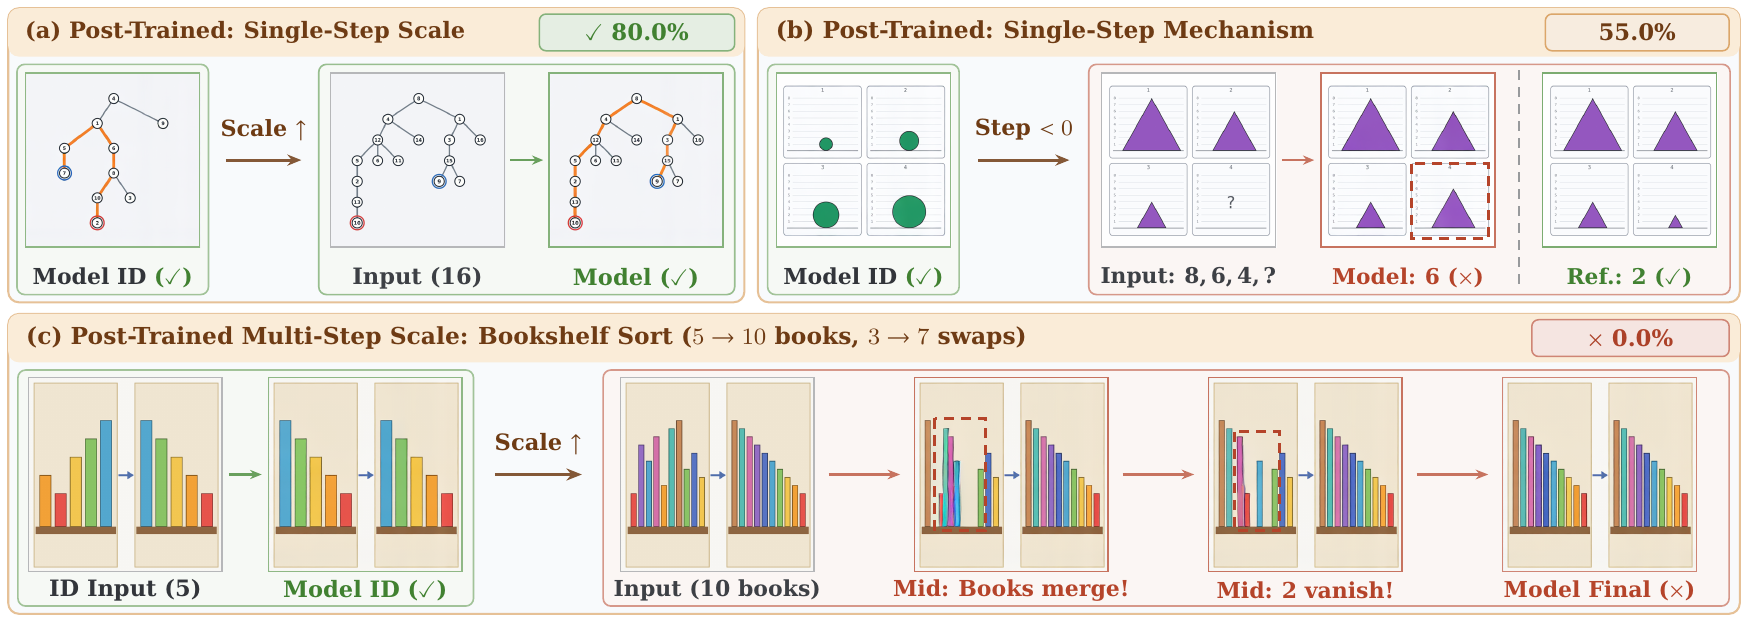
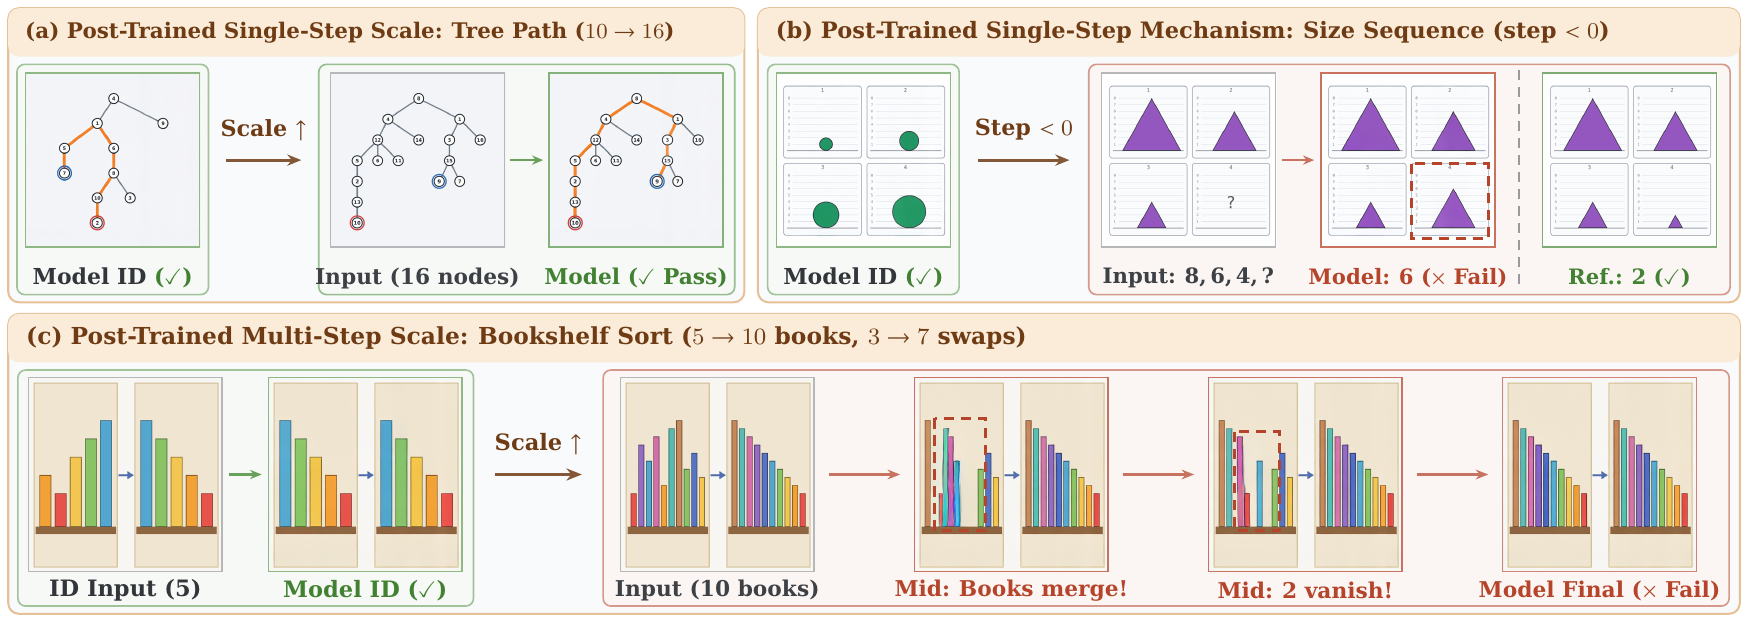
Remove ambiguous percentage badges on case cards and clarify metric scopes

diff --git a/docs/index.html b/docs/index.html
@@ -402,11 +402,11 @@
               <div class="mosaic-head">
                 <div>
                   <strong>11 Task Families (246 In-Domain Tasks)</strong>
-                  <span>Hover to preview reference video &middot; Click to browse family</span>
+                  <span>Hover to preview reference video &middot; Click to browse &middot; Bars show post-trained VideoGym-LTX-2.3 In-Domain pass rate</span>
                 </div>
                 <div class="mosaic-legend">
-                  <span><i class="dot dot-ss"></i>Single-Step Dominant</span>
-                  <span><i class="dot dot-ms"></i>Multi-Step Dominant</span>
+                  <span><i class="dot dot-ss"></i>Single-Step (SS) Dominant</span>
+                  <span><i class="dot dot-ms"></i>Multi-Step (MS) Dominant</span>
                 </div>
               </div>
               <div id="family-mosaic" class="family-mosaic"></div>
@@ -763,9 +763,10 @@
                 <strong>Figure 4. Post-Trained Rollouts under Prompt Paraphrase: Text vs. Vision.</strong>
                 Rollouts from post-trained VideoGym-LTX-2.3 on matched problems. <strong>(a)</strong> In Multi-Step
                 <em>Square Maze</em>, synonymous text rewrites pass cleanly, whereas redrawing the walled maze as rail
-                links on the same grid causes an illegal off-path shortcut (0.00% across all Multi-Step tasks).
-                <strong>(b)</strong> Marking one static shortest path in the Single-Step Group still transfers across
-                redrawn square terminals (65.22% Single-Step retention).
+                links on the same grid causes an illegal off-path shortcut (0.00% pass rate across all 14 Multi-Step
+                Vision Paraphrase tasks). <strong>(b)</strong> Marking one static shortest path in the Single-Step
+                Group still transfers across redrawn square terminals (65.22% of solved Single-Step In-Domain problems
+                retained under Vision Paraphrase).
               </figcaption>
             </figure>
 
@@ -773,9 +774,10 @@
             <div class="prose">
               <h3>2. Extrapolation: Static Scale Holds Up, Longer Rollout Chains Collapse</h3>
               <p>
-                Across 52 Extrapolation tasks (<strong>25.77%</strong> overall: <strong>52.00%</strong> Single-Step vs.
-                <strong>1.48%</strong> Multi-Step), performance on In-Domain source tasks solved at 100% accuracy splits
-                sharply along execution structure:
+                Across all 52 Extrapolation tasks, post-trained VideoGym-LTX-2.3 scores <strong>25.77%</strong> overall
+                (<strong>52.00%</strong> in the Single-Step Group vs. <strong>1.48%</strong> in the Multi-Step Group).
+                Controlling for source-task competence by restricting to tasks whose In-Domain source is solved at 100%
+                accuracy reveals a sharp split in Extrapolation pass rate:
               </p>
             </div>
 
@@ -783,19 +785,19 @@
               <div class="extrap-card">
                 <div class="extrap-title-row">
                   <strong>Scale Extrapolation</strong>
-                  <span>29 Tasks &middot; Larger Grids, Objects, or Steps</span>
+                  <span>29 Tasks &middot; Larger Grids, Objects, or Steps &middot; Extrapolation Pass Rate</span>
                 </div>
                 <div class="extrap-meters">
                   <div class="em-item">
                     <div class="em-top">
-                      <span>Single-Step (100%-Solved In-Domain Sources)</span>
+                      <span>Single-Step Group (6 tasks with 100%-solved In-Domain sources)</span>
                       <strong class="is-blue">80.00%</strong>
                     </div>
                     <div class="em-track"><i style="width: 80%" class="fill-blue"></i></div>
                   </div>
                   <div class="em-item">
                     <div class="em-top">
-                      <span>Multi-Step (100%-Solved In-Domain Sources)</span>
+                      <span>Multi-Step Group (5 tasks with 100%-solved sources; 0.00% across all 20 tasks)</span>
                       <strong class="is-red">0.00% <small>(remains 0% at 20 questions/task)</small></strong>
                     </div>
                     <div class="em-track"><i style="width: 1.5%" class="fill-red"></i></div>
@@ -810,19 +812,19 @@
               <div class="extrap-card">
                 <div class="extrap-title-row">
                   <strong>Mechanism Extrapolation</strong>
-                  <span>23 Tasks &middot; Unseen Boundary Cases</span>
+                  <span>23 Tasks &middot; Unseen Boundary Cases &middot; Extrapolation Pass Rate</span>
                 </div>
                 <div class="extrap-meters">
                   <div class="em-item">
                     <div class="em-top">
-                      <span>Single-Step (100%-Solved In-Domain Sources)</span>
+                      <span>Single-Step Group (12 tasks with 100%-solved In-Domain sources)</span>
                       <strong class="is-amber">55.00%</strong>
                     </div>
                     <div class="em-track"><i style="width: 55%" class="fill-amber"></i></div>
                   </div>
                   <div class="em-item">
                     <div class="em-top">
-                      <span>Multi-Step (All 7 Tasks)</span>
+                      <span>Multi-Step Group (all 7 Multi-Step tasks; none reach 100% In-Domain)</span>
                       <strong class="is-red">5.71%</strong>
                     </div>
                     <div class="em-track"><i style="width: 5.71%" class="fill-red"></i></div>
@@ -847,11 +849,15 @@
               </div>
               <figcaption>
                 <strong>Figure 5. Post-Trained Rollouts under Extrapolation.</strong>
-                Rollouts from post-trained VideoGym-LTX-2.3 comparing 100%-solved In-Domain source tasks (left) against
-                Reference Length Extrapolation (right). <strong>(a)</strong> Single-Step Scale Extrapolation transfers
-                cleanly to larger trees (80.0%). <strong>(b)</strong> Unseen negative height steps revert to upward
-                growth seen in training. <strong>(c)</strong> Scaling Multi-Step bookshelf sorting from 5 to 10 books
-                breaks mid-video object permanence despite proportional extra frames (0.0%).
+                Rollouts from post-trained VideoGym-LTX-2.3 comparing solved In-Domain source instances (left) against
+                Reference Length Extrapolation instances (right). <strong>(a)</strong> Single-Step Scale
+                (<em>Tree Path</em>, 10 &rarr; 16 nodes) transfers cleanly (80.00% pass rate across Single-Step Scale
+                tasks with 100%-solved In-Domain sources). <strong>(b)</strong> Single-Step Mechanism
+                (<em>Size Sequence</em>) fails on an unseen negative step (8, 6, 4 &rarr; 2), fading in height 6 by
+                replaying upward training growth (55.00% pass rate across Single-Step Mechanism tasks with 100%-solved
+                sources, succeeding mainly when training trends still apply). <strong>(c)</strong> Multi-Step Scale
+                (<em>Bookshelf Sort</em>, 5 &rarr; 10 books) merges and drops books mid-video before copying the target
+                (0.00% pass rate across all Multi-Step Scale tasks).
               </figcaption>
             </figure>
 
@@ -903,9 +909,11 @@
               <figcaption>
                 <strong>Figure 6. Post-Trained Rule Composition Fails Across Both Groups.</strong>
                 Rollouts from post-trained VideoGym-LTX-2.3 comparing constituent In-Domain tasks solved at 100%
-                accuracy (left) against Reference Length Composition (right). <strong>(a)</strong> Serial Multi-Step
-                Composition ignores the conveyor push before bridging across water. <strong>(b)</strong> Joint
-                Single-Step Composition updates polygon sides (+1) while ignoring the paired color cycle.
+                accuracy (left) against Reference Length Composition (right; 1.00% pass rate across all 20 Multi-Step
+                and 0.00% across all 14 Single-Step Composition tasks). <strong>(a)</strong> Serial Multi-Step
+                Composition (<em>Conveyor Belt</em> + <em>Bridge Drop</em>) ignores the conveyor push before bridging
+                across water. <strong>(b)</strong> Joint Single-Step Composition (<em>Polygon Side Step</em> +
+                <em>Color Cycle</em>) updates polygon sides (+1) while ignoring the paired color cycle.
               </figcaption>
             </figure>
 

diff --git a/docs/assets/app.js b/docs/assets/app.js
@@ -505,7 +505,7 @@
           panes: [
             {
               title: "Rule 1: Ancestor",
-              sub: "100% ID · 41f",
+              sub: "VideoGym-LTX-2.3 · 41f",
               verdict: "pass",
               badge: "Pass",
               src: "media/showcase/05_beyond_familiar_patterns_and_n20_audit/01_comp_3rule_ancestor_subtree_diameter/c1_cca_PASS.mp4",
@@ -515,7 +515,7 @@
             },
             {
               title: "Rule 2: Subtree",
-              sub: "100% ID · 41f",
+              sub: "VideoGym-LTX-2.3 · 41f",
               verdict: "pass",
               badge: "Pass",
               src: "media/showcase/05_beyond_familiar_patterns_and_n20_audit/01_comp_3rule_ancestor_subtree_diameter/c2_subtree_PASS.mp4",
@@ -525,7 +525,7 @@
             },
             {
               title: "Rule 3: Diameter",
-              sub: "100% ID · 41f",
+              sub: "VideoGym-LTX-2.3 · 41f",
               verdict: "pass",
               badge: "Pass",
               src: "media/showcase/05_beyond_familiar_patterns_and_n20_audit/01_comp_3rule_ancestor_subtree_diameter/c3_diameter_PASS.mp4",
@@ -545,7 +545,7 @@
             },
             {
               title: "Combined Rollout",
-              sub: "0% Comp. · 41f",
+              sub: "VideoGym-LTX-2.3 · 41f",
               verdict: "fail",
               badge: "Fail",
               src: "media/showcase/05_beyond_familiar_patterns_and_n20_audit/01_comp_3rule_ancestor_subtree_diameter/composition_FAIL.mp4",
@@ -955,9 +955,9 @@
             <strong>${esc(f.name)}</strong>
             <span>${f.tasks} tasks</span>
           </div>
-          <div class="ft-rate-row">
+          <div class="ft-rate-row" title="Post-trained VideoGym-LTX-2.3 In-Domain pass rate across ${f.tasks} tasks">
             <div class="ft-bar"><i style="width: ${f.rate}%" class="${f.dominant === "ss" ? "fill-blue" : "fill-green"}"></i></div>
-            <span>${f.rate.toFixed(1)}% ID</span>
+            <span>${f.rate.toFixed(1)}% ID Pass</span>
           </div>
         </div>
       </div>`,

diff --git a/README.md b/README.md
@@ -197,11 +197,11 @@ Evaluating **VideoGym-LTX-2.3** against all three base models (`LTX-2.3`, `Wan2.
 </p>
 <p>
   <img src="docs/assets/figures/fig4_paraphrase.png" alt="Post-trained VideoGym-LTX-2.3 rollouts on Multi-Step square maze and Single-Step shortest path across In-Domain, Text Paraphrase, and Vision Paraphrase" width="100%">
-  <sub><b>Figure 4. Post-Trained Rollouts under Prompt Paraphrase: Text Robustness vs. Visual Symbol Dependence.</b> Rollouts from post-trained <b>VideoGym-LTX-2.3</b> on matched problems. <b>(a)</b> On Multi-Step <i>Square Maze</i>, Text Prompt Paraphrase passes cleanly, whereas Vision Prompt Paraphrase (diamond stations and linked rails on the same grid) cuts across an unlinked gap. <b>(b)</b> On Single-Step <i>Shortest Path</i>, redrawing circular nodes into square terminals still transfers, matching Single-Step retention (65.22%) versus Multi-Step collapse (0.00%).</sub>
+  <sub><b>Figure 4. Post-Trained Rollouts under Prompt Paraphrase: Text Robustness vs. Visual Symbol Dependence.</b> Rollouts from post-trained <b>VideoGym-LTX-2.3</b> on matched problems. <b>(a)</b> On Multi-Step <i>Square Maze</i>, Text Prompt Paraphrase passes cleanly, whereas Vision Prompt Paraphrase (diamond stations and linked rails on the same grid) cuts across an unlinked gap (0.00% pass rate across all 14 Multi-Step Vision Paraphrase tasks). <b>(b)</b> On Single-Step <i>Shortest Path</i>, redrawing circular nodes into square terminals still transfers, matching Single-Step Vision Paraphrase retention (65.22% of solved In-Domain problems retained).</sub>
 </p>
 <p>
   <img src="docs/assets/figures/fig5_extrapolation.png" alt="Post-trained VideoGym-LTX-2.3 Extrapolation rollouts across Single-Step Scale, Single-Step Mechanism, and Multi-Step Scale" width="100%">
-  <sub><b>Figure 5. Post-Trained Rollouts under Extrapolation.</b> Rollouts from post-trained <b>VideoGym-LTX-2.3</b> comparing 100%-solved In-Domain source tasks (left) against Reference Length Extrapolation (right). <b>(a)</b> Single-Step Scale (<i>Tree Path</i>, 10 → 16 nodes) transfers cleanly (80.0%). <b>(b)</b> Single-Step Mechanism (<i>Size Sequence</i>) fails on an unseen negative step (8, 6, 4 → 2), fading in height 6 by replaying upward training growth. <b>(c)</b> Multi-Step Scale (<i>Bookshelf Sort</i>, 5 → 10 books) merges and drops books mid-video before copying the target (0.0%).</sub>
+  <sub><b>Figure 5. Post-Trained Rollouts under Extrapolation.</b> Rollouts from post-trained <b>VideoGym-LTX-2.3</b> comparing solved In-Domain source instances (left) against Reference Length Extrapolation instances (right). <b>(a)</b> Single-Step Scale (<i>Tree Path</i>, 10 → 16 nodes) transfers cleanly (80.00% pass rate across Single-Step Scale tasks with 100%-solved In-Domain sources). <b>(b)</b> Single-Step Mechanism (<i>Size Sequence</i>) fails on an unseen negative step (8, 6, 4 → 2), fading in height 6 by replaying upward training growth (55.00% pass rate across Single-Step Mechanism tasks with 100%-solved sources, succeeding mainly when training trends still apply). <b>(c)</b> Multi-Step Scale (<i>Bookshelf Sort</i>, 5 → 10 books) merges and drops books mid-video before copying the target (0.00% pass rate across all Multi-Step Scale tasks).</sub>
 </p>
 </details>
 
@@ -224,7 +224,7 @@ Evaluating **VideoGym-LTX-2.3** against all three base models (`LTX-2.3`, `Wan2.
 
 <p>
   <img src="docs/assets/figures/fig6_composition.png" alt="Post-trained VideoGym-LTX-2.3 Serial Multi-Step and Joint Single-Step Composition failures despite 100% constituent In-Domain accuracy" width="100%">
-  <sub><b>Figure 6. Post-Trained Rule Composition Fails Across Both Groups.</b> Rollouts from post-trained <b>VideoGym-LTX-2.3</b> comparing constituent In-Domain tasks solved at 100% accuracy (left) against Reference Length Composition (right): serial Multi-Step ignores the conveyor push before bridging, and joint Single-Step updates polygon sides while ignoring the 3-color cycle.</sub>
+  <sub><b>Figure 6. Post-Trained Rule Composition Fails Across Both Groups.</b> Rollouts from post-trained <b>VideoGym-LTX-2.3</b> comparing constituent In-Domain tasks solved at 100% accuracy (left) against Reference Length Composition (right; 1.00% pass rate across all 20 Multi-Step and 0.00% across all 14 Single-Step Composition tasks): <b>(a)</b> serial Multi-Step (<i>Conveyor Belt</i> + <i>Bridge Drop</i>) ignores the conveyor push before bridging, and <b>(b)</b> joint Single-Step (<i>Polygon Side Step</i> + <i>Color Cycle</i>) updates polygon sides while ignoring the 3-color cycle.</sub>
 </p>
 
 To verify whether different backbones, 5× per-task data scale, or RLVR shift this boundary, we evaluate `VideoGym-LTX-2.3` alongside **VBVR-Pro A14B** (SFT) and **VBVR-Pro 5B RLVR** (two-stage SFT + DanceGRPO/CPS RLVR), both trained on the 1.25M-video VBVR-Pro dataset across 250 tasks ([`relations.toml`](evaluation/cross_benchmark/vbvr_pro/relations.toml)):
@@ -304,7 +304,7 @@ Prior studies reported higher out-of-domain scores (`35–70/100`) for two reaso
 
 <p>
   <img src="docs/assets/figures/fig7_scoring.png" alt="Comparison of final-state and continuous partial-credit metrics against full-video verification on post-trained model rollouts" width="100%">
-  <sub><b>Figure 7. Why Loose Metrics Mistake Post-Trained Shortcuts for Reasoning.</b> On post-trained model rollouts, final-state checks miss mid-video agent duplication (a, c), while continuous partial-credit floors and pixel tolerances award up to 100/100 to unsolved videos (b, d).</sub>
+  <sub><b>Figure 7. Why Loose Metrics Mistake Post-Trained Shortcuts for Reasoning.</b> <b>(a)</b> On VideoGym Composition (<i>Portal + Conveyor</i>), post-trained <b>VideoGym-LTX-2.3</b> spawns two duplicate agents mid-video yet lands on G in the final frame. <b>(b)</b> On VBVR-Pro Bench (<i>Majority Color</i>), post-trained <b>VBVR-Pro 5B RLVR</b> leaves a pink square unremoved yet receives 100/100 under partial-credit pixel tolerances. <b>(c)</b> Splitting post-trained VideoGym-LTX-2.3 final-state passes (bar length) into full-video passes and invalid-process videos (parentheses: invalid share of final-state passes). <b>(d)</b> Full-video verification failure rates across VBVR-Pro continuous-score cutoffs.</sub>
 </p>
 
 ---
